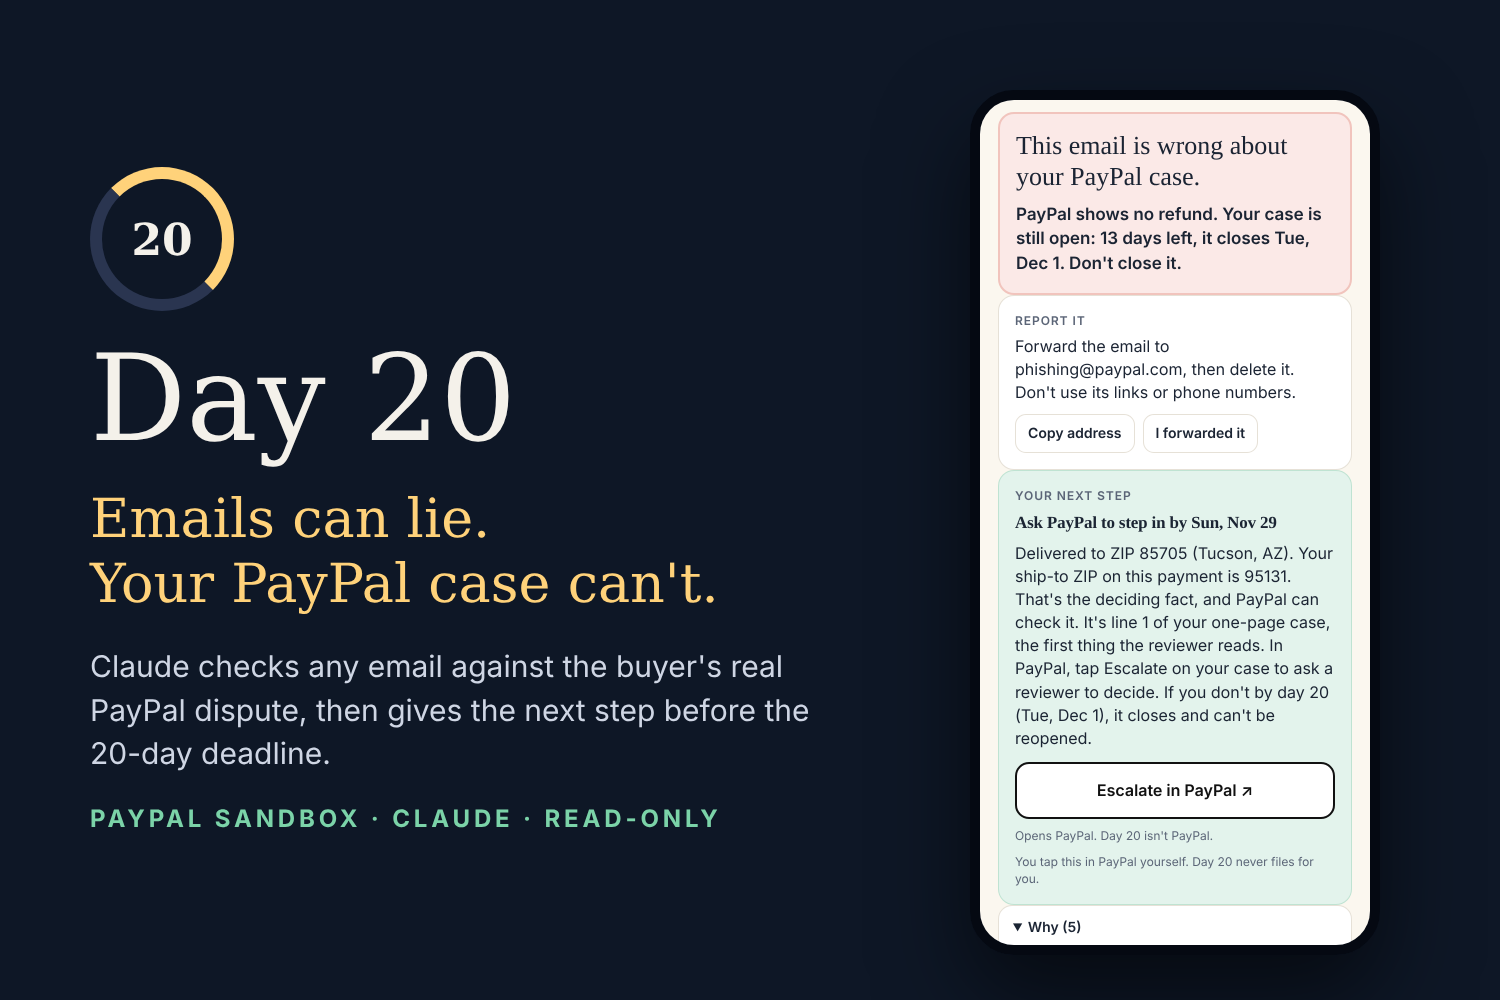
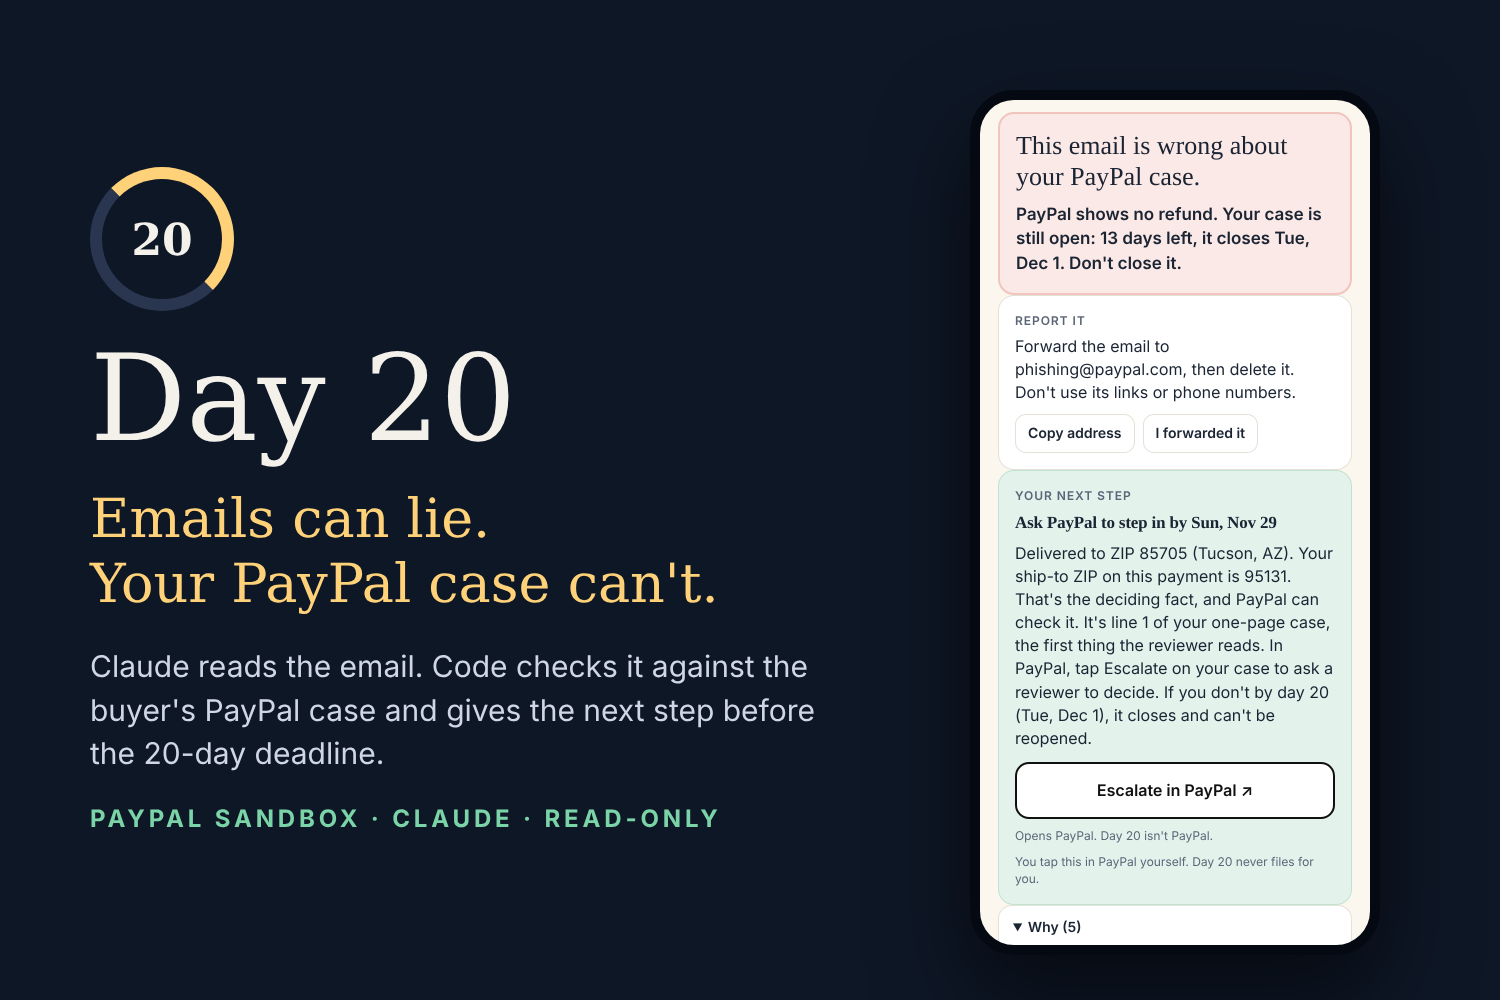
Gallery images rebuilt (before/after, clock, Claude's catch, labelled one-page case, results); video cards relabelled

Changed region(s): [[0.0613, 0.651, 0.552, 0.775]]

diff --git a/docs/VIDEO_SCRIPT.md b/docs/VIDEO_SCRIPT.md
@@ -19,7 +19,7 @@ Rosa are animated SVG characters from `public/characters.js`.
 | 1:08–1:18 | Phone: the one-page case, every line tagged. | "For the reviewer: the deciding fact first. Every line is labelled: PayPal's record, something PayPal can check, or Maya's own words." |
 | 1:18–1:27 | Rosa (animated), the reviewer. | "Rosa reviews PayPal disputes. She'll never meet Maya. She reads the case, and checks line 1 of Maya's page first. This time, Maya acts before day 20." |
 | 1:27–1:36 | Under the hood. | "Claude reads. Code decides. Claude reads messy emails and screenshots. Code decides the verdict and the deadline. Code writes every sentence Maya sees. Claude's red flags must quote the email." |
-| 1:36–1:45 | Same 60 test emails. | Scams flagged as false: rules alone 9/24, with Claude 11/24. Genuine emails flagged: 0/36 and 0/36. "Emails we had tuned on." |
+| 1:36–1:45 | Same 60 test emails. | Scams flagged red: rules alone 9/24, with Claude 11/24. Genuine emails wrongly flagged red: 0/36 and 0/36. "Emails we had tuned on. Every scam still got at least 'go by your PayPal case, not this email'." |
 | 1:45–1:53 | Email it had never seen. | "12 new genuine emails: 11 left alone, in all 3 runs with Claude. The one miss: a real refund from a different shop. Unseen scams with Claude: not measured yet." |
-| 1:53–2:00 | How we tested it. | "AI agents played scammers and honest senders, scoring a point for every mistake they caused. Each mistake became a test. The numbers re-run from the repo." |
-| 2:00–2:07 | End card. | "Emails can lie. Her case record can't. Day 20 · day20.onrender.com · Sandbox prototype · read-only by code · free for buyers · open source (MIT). Built on PayPal's sandbox APIs. Not affiliated with or endorsed by PayPal. PayPal decides every case." |
+| 1:53–2:00 | How we tested it. | "AI agents played scammers and honest senders, scoring a point for every mistake they caused. Each mistake became a test. The email-test numbers re-run from the repo." |
+| 2:00–2:07 | End card. | "Emails can lie. Your PayPal case can't. Day 20 · day20.onrender.com · Sandbox prototype · read-only by code · free for buyers · open source (MIT). Built on PayPal's sandbox APIs. Not affiliated with or endorsed by PayPal. PayPal decides every case." |
